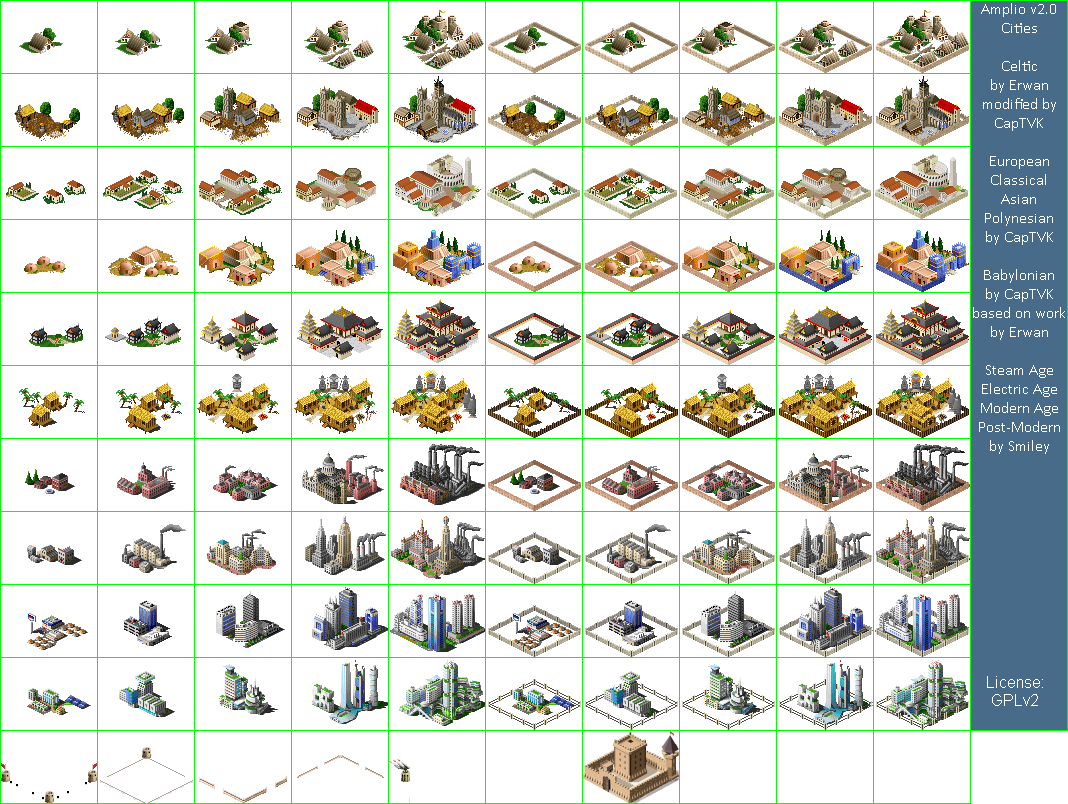
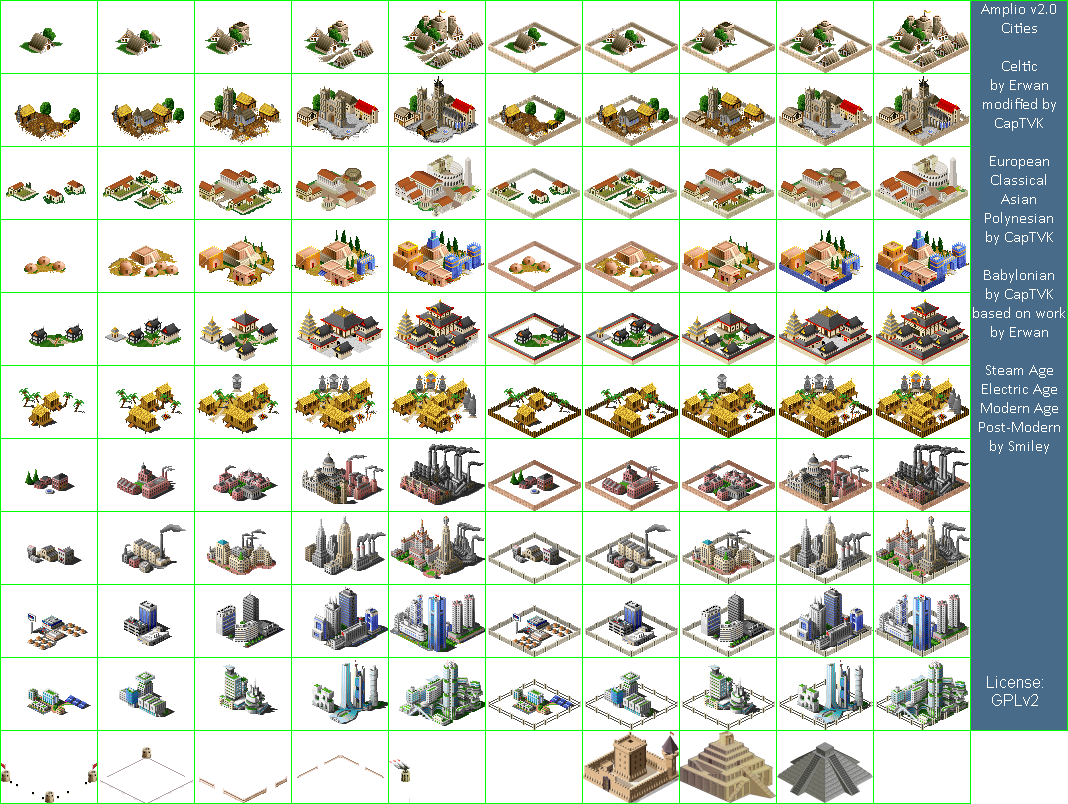
Ziggurat graphics

Changed region(s): [[0.618, 0.9017, 0.8343, 1.0]]

diff --git a/freeciv-web/src/main/webapp/javascript/2dcanvas/tilespec.js b/freeciv-web/src/main/webapp/javascript/2dcanvas/tilespec.js
@@ -49,6 +49,7 @@ const CITY_WALLS = 1,
       CITY_FORTIFICATIONS = 4,
       CITY_CITADEL = 8,
       CITY_SAM = 16;
+      CITY_ZIGGURAT = 32;
 
 var current_select_sprite = 0;
 var max_select_sprite = 4;
@@ -1670,6 +1671,7 @@ function get_city_sprite(pcity)
 {
   var tag;
   if (pcity['walls'] & CITY_CITADEL) tag = "city.citadel_overlay";
+  else if (pcity['walls'] & CITY_ZIGGURAT) tag = "city.ziggurat_overlay";
   else {
     var style_id = pcity['style'];
     if (style_id == -1) style_id = 0;   /* sometimes a player has no city_style. */

diff --git a/freeciv-web/src/main/webapp/javascript/pregame.js b/freeciv-web/src/main/webapp/javascript/pregame.js
@@ -740,6 +740,7 @@ function pregame_settings()
       + "<div id='pregame_settings_tabs-1'><table id='settings_table'> "
       + "<tr title='Ruleset version'><td>Ruleset:</td>"
       + "<td><select name='ruleset' id='ruleset'>"
+      + "<option value='mp2-elephant'>Multiplayer 2.5 (under development)</option>"
       + "<option value='mp2-dragoon'>Multiplayer 2.4 Dragoon</option>"
       + "<option value='mp2-caravel'>Multiplayer 2.3 Caravel</option>"
       + "<option value='mp2-brava'>Multiplayer 2.2 Brava</option>"
